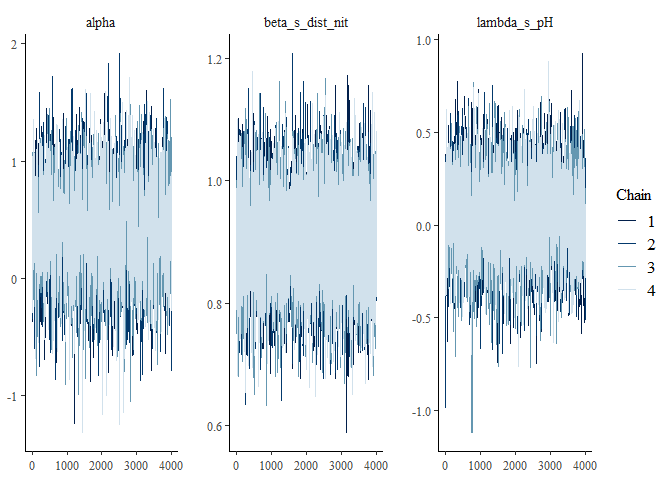
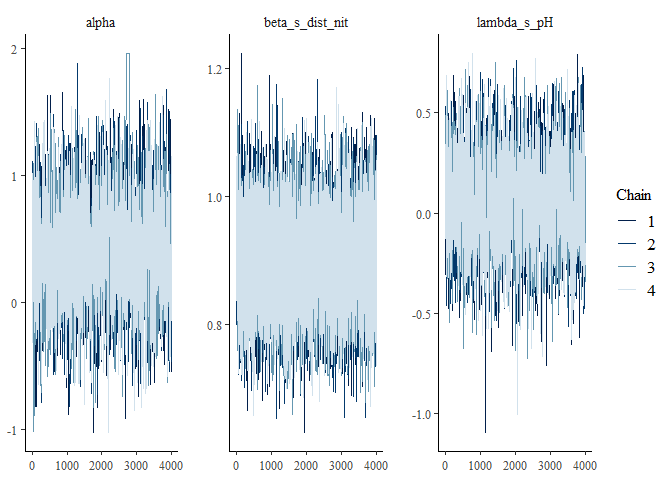
many changes

diff --git a/README.md b/README.md
@@ -1,13 +1,32 @@
 GDUM: Simultaneusly estimating community dissimilarity and uniqueness
 ================
 
+This repository contains the code associated with the manuscript
+Hernandez-Carrasco et al. (2025).
+
+- `functions` contains custom helper functions used in other scripts.
+- `simulations`, `case_study_doubs`, and `case_study_atlanticforest`
+  contain scripts to replicate the analyses presented in the manuscript
+- `SI` contains code to replicate the figures in Supplementary
+  Information
+- `models` contains the models fitted to simulated data
+- `plots` contains the figures in the main text
+
+Below we include a short tutorial showing how to fitting GDUMs using the
+wrapping functions provided in this repository.
+
+NOTE: For transparency, our scripts do not use some of the helper
+functions described below. Instead, we provide the full code used to fit
+each model and generate predictions.
+
 # Fitting GDUMs in `greta`
 
 Here we show how to fit and inspect Generalized Dissimilarity Uniqueness
 Models (DGUM) using `greta`. We provide some helper functions to
-construct the models and generate predictions. This scripts assumes that
+construct the models and generate predictions.This scripts assumes that
 a folder named `functions` exists in the working directory with the
-helper functions provided [here](link%20to%20DOI).
+helper functions provided
+[here](https://github.com/dhercar/GDUM/tree/main/Functions).
 
 ``` r
 # Load functions
@@ -202,8 +221,8 @@ m_gaus <- fit_gdum(Y = Y_bray[,3], # Dissimilarities
 [greta-stats.org/reference/samplers](https://greta-stats.org/reference/samplers)
 for more information.
 
-We can explore MCMC chains using functions in `coda` and `bayesplot`
-functions. MCMC chains are in `m_gaus$draws`.
+We can explore MCMC chains using functions in `coda` and `bayesplot`.
+MCMC chains are in `m_gaus$draws`.
 
 ``` r
 bayesplot::mcmc_trace(m_gaus$draws, regex_pars = c('alpha','beta','lambda'))
@@ -212,10 +231,10 @@ bayesplot::mcmc_trace(m_gaus$draws, regex_pars = c('alpha','beta','lambda'))
 ![](README_files/figure-gfm/unnamed-chunk-13-1.png)<!-- -->
 
 - `alpha` is the global intercept
-- `beta_X` are the coefficients for oairwise-level predictors
+- `beta_X` are the coefficients for pairwise-level predictors
 - `labmda_X` are the coefficients for site-level predictors
 
-In additin, `coda::gelman.diag()` can be used to compute the
+In addition, `coda::gelman.diag()` can be used to compute the
 [Gelman-Rubin](https://en.wikipedia.org/wiki/Gelman-Rubin_statistic)
 statistic
 
@@ -227,13 +246,13 @@ coda::gelman.diag(m_gaus$draws)
     ## 
     ##                 Point est. Upper C.I.
     ## alpha                    1       1.00
-    ## SD_s                     1       1.01
-    ## sigma                    1       1.00
+    ## SD_s                     1       1.00
+    ## sigma                    1       1.01
     ## beta_s_dist_nit          1       1.00
     ## lambda_s_pH              1       1.00
     ## e_s[1,1]                 1       1.00
     ## e_s[2,1]                 1       1.00
-    ## e_s[3,1]                 1       1.01
+    ## e_s[3,1]                 1       1.00
     ## e_s[4,1]                 1       1.00
     ## e_s[5,1]                 1       1.00
     ## e_s[6,1]                 1       1.00
@@ -244,15 +263,15 @@ coda::gelman.diag(m_gaus$draws)
     ## e_s[11,1]                1       1.00
     ## e_s[12,1]                1       1.00
     ## e_s[13,1]                1       1.00
-    ## e_s[14,1]                1       1.00
+    ## e_s[14,1]                1       1.01
     ## e_s[15,1]                1       1.00
     ## e_s[16,1]                1       1.00
     ## e_s[17,1]                1       1.00
     ## e_s[18,1]                1       1.00
-    ## e_s[19,1]                1       1.01
+    ## e_s[19,1]                1       1.00
     ## e_s[20,1]                1       1.00
-    ## e_s[21,1]                1       1.01
-    ## e_s[22,1]                1       1.00
+    ## e_s[21,1]                1       1.00
+    ## e_s[22,1]                1       1.01
     ## e_s[23,1]                1       1.00
     ## e_s[24,1]                1       1.00
     ## e_s[25,1]                1       1.00
@@ -270,18 +289,18 @@ In our case, all values are relatively small ($\geq 1.01$) indicating
 that chains have succesfully converged.
 
 The `summary` of the draws provides the estimated value of each model
-parameter
+parameter and credibility intervals
 
 ``` r
 summary(m_gaus$draws)[[1]][1:5,]
 ```
 
     ##                        Mean          SD     Naive SE Time-series SE
-    ## alpha           0.630403872 0.050203882 3.968965e-04   5.891248e-04
-    ## SD_s            0.134939475 0.020694808 1.636068e-04   2.694513e-04
-    ## sigma           0.187602791 0.006595838 5.214468e-05   8.003544e-05
-    ## beta_s_dist_nit 0.167340772 0.013244816 1.047095e-04   1.723781e-04
-    ## lambda_s_pH     0.008054158 0.026125398 2.065394e-04   2.529993e-04
+    ## alpha           0.629882142 0.051003526 4.032183e-04   5.968936e-04
+    ## SD_s            0.135112214 0.020880990 1.650787e-04   2.676229e-04
+    ## sigma           0.187578585 0.006761673 5.345572e-05   8.728534e-05
+    ## beta_s_dist_nit 0.166954539 0.013105565 1.036086e-04   1.678528e-04
+    ## lambda_s_pH     0.008071676 0.026123290 2.065227e-04   2.397642e-04
 
 - `sigma` is the standard deviation of the normally distributed
   residuals
@@ -292,9 +311,8 @@ summary(m_gaus$draws)[[1]][1:5,]
 
 #### Beta distribution
 
-Note that the beta distribution does not allow for 0s or 1s. For the
-sake of this example, we replace those values with `0.001` and `0.999`
-respectively.
+Note that the beta distribution does not allow for 0s or 1s. For this
+example, we replace those values with `0.001` and `0.999` respectively.
 
 ``` r
 Y_bray$diss2 <- ifelse(Y_bray$diss == 0, 0.001, Y_bray$diss)
@@ -319,11 +337,11 @@ summary(m_beta$draws)[[1]][1:5,]
 ```
 
     ##                       Mean         SD     Naive SE Time-series SE
-    ## alpha           0.65803477 0.29297989 0.0023162094   0.0036251243
-    ## SD_s            0.81557566 0.12069991 0.0009542166   0.0015750909
-    ## phi             4.97880531 0.34467349 0.0027248832   0.0068935729
-    ## beta_s_dist_nit 0.81264265 0.06763226 0.0005346799   0.0006433403
-    ## lambda_s_pH     0.04301759 0.15374221 0.0012154389   0.0015254916
+    ## alpha           0.65830955 0.28777637 0.0022750719   0.0032740946
+    ## SD_s            0.81462620 0.12025762 0.0009507200   0.0015741483
+    ## phi             4.97920309 0.35145430 0.0027784902   0.0081228368
+    ## beta_s_dist_nit 0.81246401 0.06458139 0.0005105607   0.0006183887
+    ## lambda_s_pH     0.04346403 0.15216096 0.0012029380   0.0014451408
 
 Instead of `sigma`, `phi` is the scale parameter of the beta
 distribution. The larger the value of `phi`, the narrower the
@@ -332,7 +350,7 @@ distribution gets around the estimated dissimilarity.
 #### Binomial distribution
 
 The binomial distribution can be used when the dissimilarity index
-corresponds to a proportion of shared of unshared items, such as the
+corresponds to a proportion of shared and unshared items, such as the
 Sørensen–Dice, Jaccard or Bray-Curtis dissimilarity indices. Both the
 numerator and the denominator need to be supplied independently:
 
@@ -357,10 +375,10 @@ summary(m_bin$draws)[[1]][1:4,]
 ```
 
     ##                       Mean         SD     Naive SE Time-series SE
-    ## alpha           0.59733609 0.44307789 0.0035028383   0.0245509368
-    ## SD_s            1.33190685 0.20943654 0.0016557413   0.0070029789
-    ## beta_s_dist_nit 0.95363949 0.04059751 0.0003209515   0.0005036378
-    ## lambda_s_pH     0.07504937 0.24392231 0.0019283752   0.0098507196
+    ## alpha           0.57446869 0.41928481 0.0033147374   0.0256615531
+    ## SD_s            1.32487658 0.20056531 0.0015856080   0.0077188083
+    ## beta_s_dist_nit 0.95495893 0.03989445 0.0003153933   0.0006919637
+    ## lambda_s_pH     0.06518421 0.24365061 0.0019262272   0.0116601073
 
 The binomial distribution does not contain any scale parameter.
 
@@ -389,8 +407,8 @@ m_bbin <- fit_gdum(Y = Y_bin$num_sor, # Dissimilarity matrix (numerator: b + c)
 
     ## 
 
-    ##     warmup                                           0/2000 | eta:  ?s              warmup =                                        50/2000 | eta:  1m              warmup ==                                      100/2000 | eta: 43s              warmup ===                                     150/2000 | eta: 37s              warmup ====                                    200/2000 | eta: 34s              warmup =====                                   250/2000 | eta: 31s              warmup ======                                  300/2000 | eta: 30s              warmup =======                                 350/2000 | eta: 29s              warmup ========                                400/2000 | eta: 28s              warmup =========                               450/2000 | eta: 26s              warmup ==========                              500/2000 | eta: 25s              warmup ==========                              550/2000 | eta: 24s              warmup ===========                             600/2000 | eta: 23s              warmup ============                            650/2000 | eta: 22s              warmup =============                           700/2000 | eta: 21s              warmup ==============                          750/2000 | eta: 21s              warmup ===============                         800/2000 | eta: 20s              warmup ================                        850/2000 | eta: 19s | <1% bad    warmup =================                       900/2000 | eta: 18s | <1% bad    warmup ==================                      950/2000 | eta: 17s | <1% bad    warmup ===================                    1000/2000 | eta: 16s | <1% bad    warmup ====================                   1050/2000 | eta: 15s | <1% bad    warmup =====================                  1100/2000 | eta: 14s | <1% bad    warmup ======================                 1150/2000 | eta: 14s | <1% bad    warmup =======================                1200/2000 | eta: 13s | <1% bad    warmup ========================               1250/2000 | eta: 12s | <1% bad    warmup =========================              1300/2000 | eta: 11s | <1% bad    warmup ==========================             1350/2000 | eta: 10s | <1% bad    warmup ===========================            1400/2000 | eta: 10s | <1% bad    warmup ============================           1450/2000 | eta:  9s | <1% bad    warmup ============================           1500/2000 | eta:  8s | <1% bad    warmup =============================          1550/2000 | eta:  7s | <1% bad    warmup ==============================         1600/2000 | eta:  6s | <1% bad    warmup ===============================        1650/2000 | eta:  6s | <1% bad    warmup ================================       1700/2000 | eta:  5s | <1% bad    warmup =================================      1750/2000 | eta:  4s | <1% bad    warmup ==================================     1800/2000 | eta:  3s | <1% bad    warmup ===================================    1850/2000 | eta:  2s | <1% bad    warmup ====================================   1900/2000 | eta:  2s | <1% bad    warmup =====================================  1950/2000 | eta:  1s | <1% bad    warmup ====================================== 2000/2000 | eta:  0s | <1% bad
-    ##   sampling                                           0/4000 | eta:  ?s            sampling                                          50/4000 | eta:  1m            sampling =                                       100/4000 | eta:  1m            sampling =                                       150/4000 | eta:  1m            sampling ==                                      200/4000 | eta:  1m            sampling ==                                      250/4000 | eta:  1m            sampling ===                                     300/4000 | eta:  1m            sampling ===                                     350/4000 | eta:  1m            sampling ====                                    400/4000 | eta:  1m            sampling ====                                    450/4000 | eta:  1m            sampling =====                                   500/4000 | eta:  1m            sampling =====                                   550/4000 | eta:  1m            sampling ======                                  600/4000 | eta:  1m            sampling ======                                  650/4000 | eta:  1m            sampling =======                                 700/4000 | eta:  1m            sampling =======                                 750/4000 | eta:  1m            sampling ========                                800/4000 | eta:  1m            sampling ========                                850/4000 | eta:  1m            sampling =========                               900/4000 | eta:  1m            sampling =========                               950/4000 | eta:  1m            sampling ==========                             1000/4000 | eta:  1m            sampling ==========                             1050/4000 | eta: 49s            sampling ==========                             1100/4000 | eta: 48s            sampling ===========                            1150/4000 | eta: 47s            sampling ===========                            1200/4000 | eta: 47s            sampling ============                           1250/4000 | eta: 46s            sampling ============                           1300/4000 | eta: 45s            sampling =============                          1350/4000 | eta: 44s            sampling =============                          1400/4000 | eta: 43s            sampling ==============                         1450/4000 | eta: 42s            sampling ==============                         1500/4000 | eta: 41s            sampling ===============                        1550/4000 | eta: 41s            sampling ===============                        1600/4000 | eta: 40s            sampling ================                       1650/4000 | eta: 39s            sampling ================                       1700/4000 | eta: 38s            sampling =================                      1750/4000 | eta: 37s            sampling =================                      1800/4000 | eta: 36s            sampling ==================                     1850/4000 | eta: 36s            sampling ==================                     1900/4000 | eta: 35s            sampling ===================                    1950/4000 | eta: 34s            sampling ===================                    2000/4000 | eta: 33s            sampling ===================                    2050/4000 | eta: 32s            sampling ====================                   2100/4000 | eta: 31s            sampling ====================                   2150/4000 | eta: 30s            sampling =====================                  2200/4000 | eta: 29s            sampling =====================                  2250/4000 | eta: 29s            sampling ======================                 2300/4000 | eta: 28s            sampling ======================                 2350/4000 | eta: 27s            sampling =======================                2400/4000 | eta: 26s            sampling =======================                2450/4000 | eta: 25s            sampling ========================               2500/4000 | eta: 25s            sampling ========================               2550/4000 | eta: 24s            sampling =========================              2600/4000 | eta: 23s            sampling =========================              2650/4000 | eta: 22s            sampling ==========================             2700/4000 | eta: 21s            sampling ==========================             2750/4000 | eta: 21s            sampling ===========================            2800/4000 | eta: 20s            sampling ===========================            2850/4000 | eta: 19s            sampling ============================           2900/4000 | eta: 18s            sampling ============================           2950/4000 | eta: 17s            sampling ============================           3000/4000 | eta: 17s            sampling =============================          3050/4000 | eta: 16s            sampling =============================          3100/4000 | eta: 15s            sampling ==============================         3150/4000 | eta: 14s            sampling ==============================         3200/4000 | eta: 13s            sampling ===============================        3250/4000 | eta: 12s            sampling ===============================        3300/4000 | eta: 12s            sampling ================================       3350/4000 | eta: 11s            sampling ================================       3400/4000 | eta: 10s            sampling =================================      3450/4000 | eta:  9s            sampling =================================      3500/4000 | eta:  8s            sampling ==================================     3550/4000 | eta:  7s            sampling ==================================     3600/4000 | eta:  7s            sampling ===================================    3650/4000 | eta:  6s            sampling ===================================    3700/4000 | eta:  5s            sampling ====================================   3750/4000 | eta:  4s            sampling ====================================   3800/4000 | eta:  3s            sampling =====================================  3850/4000 | eta:  2s            sampling =====================================  3900/4000 | eta:  2s            sampling ====================================== 3950/4000 | eta:  1s            sampling ====================================== 4000/4000 | eta:  0s
+    ##     warmup                                           0/2000 | eta:  ?s              warmup =                                        50/2000 | eta:  1m              warmup ==                                      100/2000 | eta: 41s              warmup ===                                     150/2000 | eta: 36s              warmup ====                                    200/2000 | eta: 32s              warmup =====                                   250/2000 | eta: 29s              warmup ======                                  300/2000 | eta: 28s              warmup =======                                 350/2000 | eta: 26s              warmup ========                                400/2000 | eta: 25s              warmup =========                               450/2000 | eta: 24s              warmup ==========                              500/2000 | eta: 23s              warmup ==========                              550/2000 | eta: 22s              warmup ===========                             600/2000 | eta: 21s              warmup ============                            650/2000 | eta: 21s              warmup =============                           700/2000 | eta: 20s              warmup ==============                          750/2000 | eta: 19s              warmup ===============                         800/2000 | eta: 18s              warmup ================                        850/2000 | eta: 17s | <1% bad    warmup =================                       900/2000 | eta: 17s | <1% bad    warmup ==================                      950/2000 | eta: 16s | <1% bad    warmup ===================                    1000/2000 | eta: 15s | <1% bad    warmup ====================                   1050/2000 | eta: 14s | <1% bad    warmup =====================                  1100/2000 | eta: 13s | <1% bad    warmup ======================                 1150/2000 | eta: 13s | <1% bad    warmup =======================                1200/2000 | eta: 12s | <1% bad    warmup ========================               1250/2000 | eta: 11s | <1% bad    warmup =========================              1300/2000 | eta: 10s | <1% bad    warmup ==========================             1350/2000 | eta: 10s | <1% bad    warmup ===========================            1400/2000 | eta:  9s | <1% bad    warmup ============================           1450/2000 | eta:  8s | <1% bad    warmup ============================           1500/2000 | eta:  7s | <1% bad    warmup =============================          1550/2000 | eta:  7s | <1% bad    warmup ==============================         1600/2000 | eta:  6s | <1% bad    warmup ===============================        1650/2000 | eta:  5s | <1% bad    warmup ================================       1700/2000 | eta:  4s | <1% bad    warmup =================================      1750/2000 | eta:  4s | <1% bad    warmup ==================================     1800/2000 | eta:  3s | <1% bad    warmup ===================================    1850/2000 | eta:  2s | <1% bad    warmup ====================================   1900/2000 | eta:  1s | <1% bad    warmup =====================================  1950/2000 | eta:  1s | <1% bad    warmup ====================================== 2000/2000 | eta:  0s | <1% bad
+    ##   sampling                                           0/4000 | eta:  ?s            sampling                                          50/4000 | eta:  1m            sampling =                                       100/4000 | eta:  1m            sampling =                                       150/4000 | eta:  1m            sampling ==                                      200/4000 | eta:  1m            sampling ==                                      250/4000 | eta:  1m            sampling ===                                     300/4000 | eta:  1m            sampling ===                                     350/4000 | eta:  1m            sampling ====                                    400/4000 | eta:  1m            sampling ====                                    450/4000 | eta:  1m            sampling =====                                   500/4000 | eta:  1m            sampling =====                                   550/4000 | eta:  1m            sampling ======                                  600/4000 | eta:  1m            sampling ======                                  650/4000 | eta:  1m            sampling =======                                 700/4000 | eta:  1m            sampling =======                                 750/4000 | eta:  1m            sampling ========                                800/4000 | eta:  1m            sampling ========                                850/4000 | eta: 50s            sampling =========                               900/4000 | eta: 49s            sampling =========                               950/4000 | eta: 49s            sampling ==========                             1000/4000 | eta: 48s            sampling ==========                             1050/4000 | eta: 47s            sampling ==========                             1100/4000 | eta: 47s            sampling ===========                            1150/4000 | eta: 46s            sampling ===========                            1200/4000 | eta: 45s            sampling ============                           1250/4000 | eta: 45s            sampling ============                           1300/4000 | eta: 44s            sampling =============                          1350/4000 | eta: 43s            sampling =============                          1400/4000 | eta: 42s            sampling ==============                         1450/4000 | eta: 42s            sampling ==============                         1500/4000 | eta: 41s            sampling ===============                        1550/4000 | eta: 40s            sampling ===============                        1600/4000 | eta: 39s            sampling ================                       1650/4000 | eta: 38s            sampling ================                       1700/4000 | eta: 37s            sampling =================                      1750/4000 | eta: 36s            sampling =================                      1800/4000 | eta: 36s            sampling ==================                     1850/4000 | eta: 35s            sampling ==================                     1900/4000 | eta: 34s            sampling ===================                    1950/4000 | eta: 33s            sampling ===================                    2000/4000 | eta: 32s            sampling ===================                    2050/4000 | eta: 31s            sampling ====================                   2100/4000 | eta: 31s            sampling ====================                   2150/4000 | eta: 30s            sampling =====================                  2200/4000 | eta: 29s            sampling =====================                  2250/4000 | eta: 28s            sampling ======================                 2300/4000 | eta: 27s            sampling ======================                 2350/4000 | eta: 26s            sampling =======================                2400/4000 | eta: 26s            sampling =======================                2450/4000 | eta: 25s            sampling ========================               2500/4000 | eta: 24s            sampling ========================               2550/4000 | eta: 23s            sampling =========================              2600/4000 | eta: 23s            sampling =========================              2650/4000 | eta: 22s            sampling ==========================             2700/4000 | eta: 21s            sampling ==========================             2750/4000 | eta: 20s            sampling ===========================            2800/4000 | eta: 19s            sampling ===========================            2850/4000 | eta: 19s            sampling ============================           2900/4000 | eta: 18s            sampling ============================           2950/4000 | eta: 17s            sampling ============================           3000/4000 | eta: 16s            sampling =============================          3050/4000 | eta: 15s            sampling =============================          3100/4000 | eta: 14s            sampling ==============================         3150/4000 | eta: 14s            sampling ==============================         3200/4000 | eta: 13s            sampling ===============================        3250/4000 | eta: 12s            sampling ===============================        3300/4000 | eta: 11s            sampling ================================       3350/4000 | eta: 10s            sampling ================================       3400/4000 | eta: 10s            sampling =================================      3450/4000 | eta:  9s            sampling =================================      3500/4000 | eta:  8s            sampling ==================================     3550/4000 | eta:  7s            sampling ==================================     3600/4000 | eta:  6s            sampling ===================================    3650/4000 | eta:  6s            sampling ===================================    3700/4000 | eta:  5s            sampling ====================================   3750/4000 | eta:  4s            sampling ====================================   3800/4000 | eta:  3s            sampling =====================================  3850/4000 | eta:  2s            sampling =====================================  3900/4000 | eta:  2s            sampling ====================================== 3950/4000 | eta:  1s            sampling ====================================== 4000/4000 | eta:  0s
 
 ``` r
 bayesplot::mcmc_trace(m_bbin$draws, regex_pars = c('alpha','beta','lambda'))
@@ -402,12 +420,12 @@ bayesplot::mcmc_trace(m_bbin$draws, regex_pars = c('alpha','beta','lambda'))
 summary(m_bbin$draws)[[1]][1:5,]
 ```
 
-    ##                       Mean         SD    Naive SE Time-series SE
-    ## alpha           0.43053924 0.39006455 0.003083731   0.0086472668
-    ## SD_s            1.13367058 0.17794240 0.001406758   0.0027695272
-    ## phi             7.17915318 0.71547145 0.005656298   0.0067491934
-    ## beta_s_dist_nit 0.90335260 0.07359366 0.000581809   0.0006544959
-    ## lambda_s_pH     0.05386084 0.20677573 0.001634706   0.0034388740
+    ##                       Mean        SD     Naive SE Time-series SE
+    ## alpha           0.43412739 0.4032296 0.0031878099   0.0119662633
+    ## SD_s            1.13597682 0.1833565 0.0014495600   0.0051332733
+    ## phi             7.18023169 0.7186433 0.0056813738   0.0070814105
+    ## beta_s_dist_nit 0.90343739 0.0726593 0.0005744222   0.0006357859
+    ## lambda_s_pH     0.06069787 0.2061461 0.0016297282   0.0035196688
 
 ## Predictions and partial effects
 
@@ -502,11 +520,11 @@ ggplot(cbind(u_pred, doubs.spa) ,aes( x = x, y = y)) +
 
 ![](README_files/figure-gfm/unnamed-chunk-26-1.png)<!-- -->
 
-Similarly, we can control for nitrogen concentration (`s_dist_nit`) to
-asses how this pairwise variable changes uniqueness estimates
+We can also control for nitrogen concentration (`s_dist_nit`) to asses
+the importance of this pairwise variable in determining uniqueness.
 
 ``` r
-u_pred <- predict_gdum(m_gaus, response = 'uniqueness', D_new = D, W_new = doubs.env, re = TRUE)
+u_pred <- predict_gdum(m_gaus, response = 'uniqueness', D_new = D, W_new = doubs.env, re = TRUE) 
 u_pred <- data.frame(u_pred)
 ggplot(cbind(u_pred, doubs.spa) ,aes( x = x, y = y)) + 
   theme_void() +
